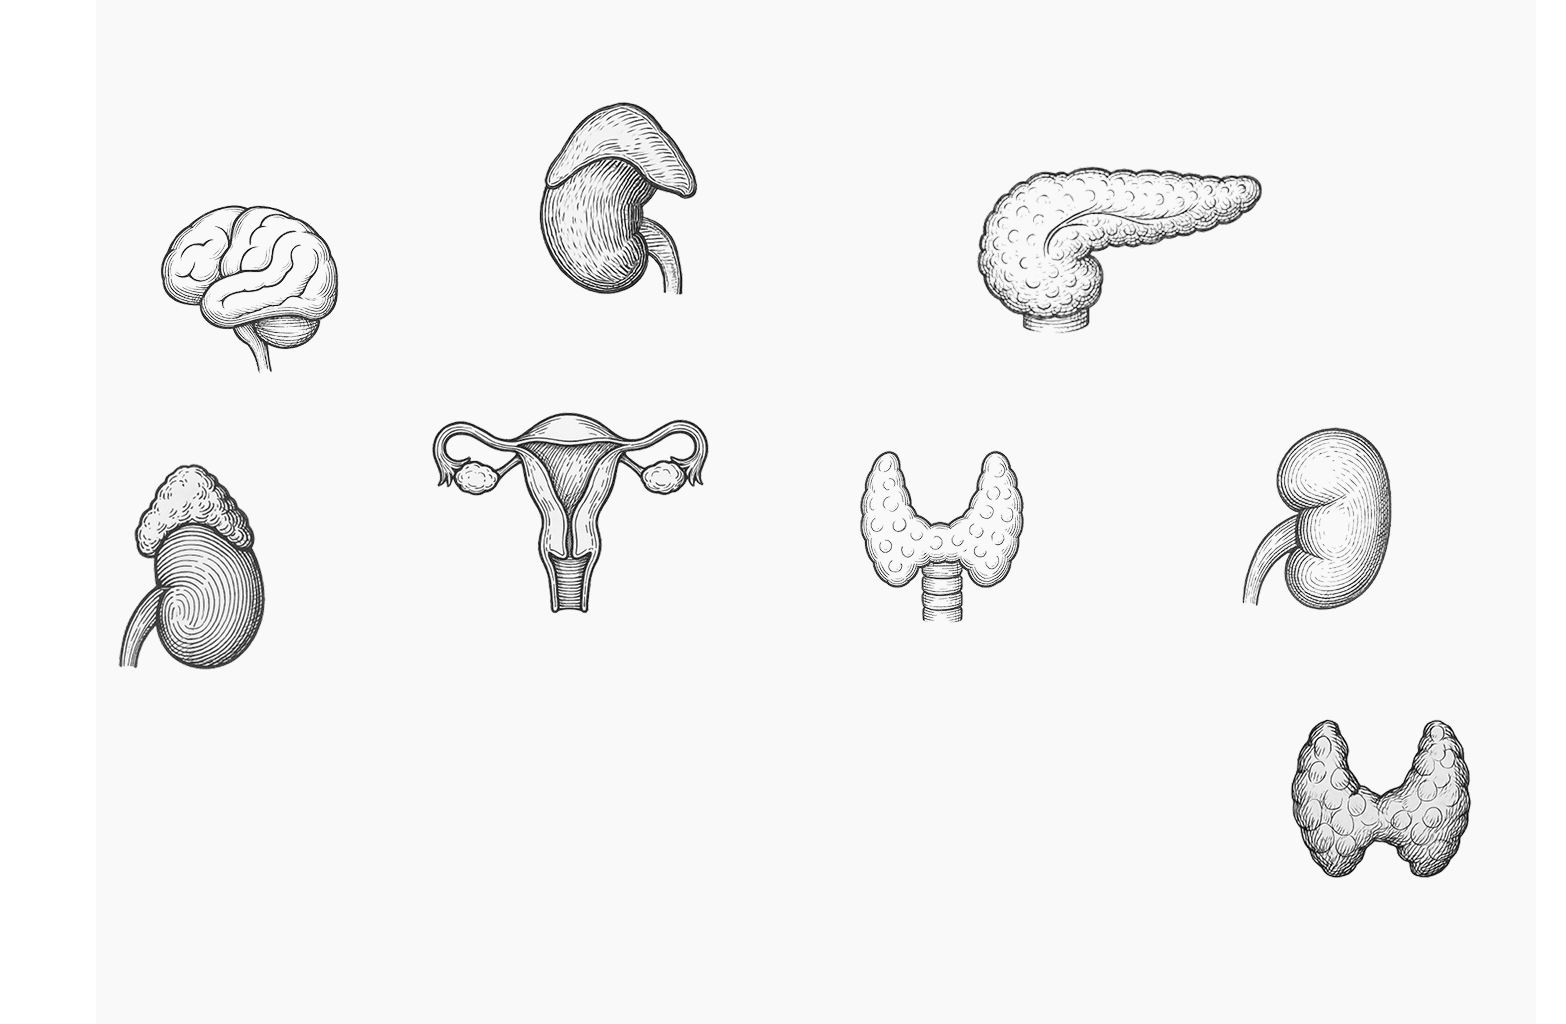
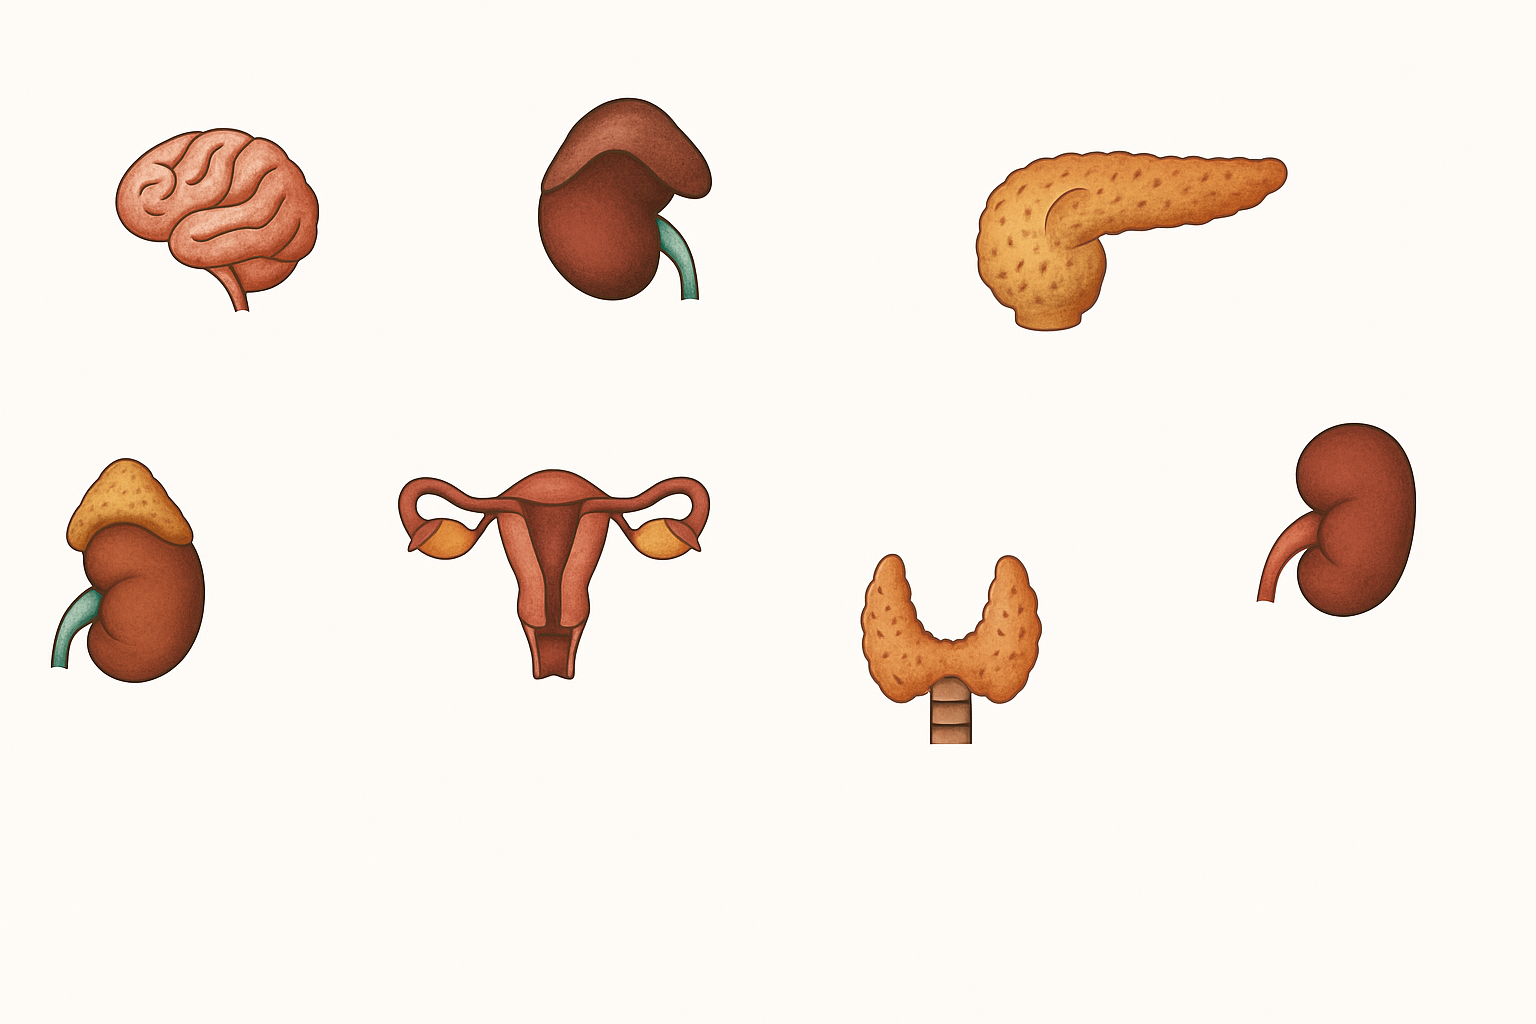
fix: changed baground image to colorful

diff --git a/app/Calculators/page.module.scss b/app/Calculators/page.module.scss
@@ -8,7 +8,6 @@
 }
 
 .page {
-  // min-height: 100vh;
   background: v.$bg;
   padding-top: 24px;
   display: flex;
@@ -113,7 +112,7 @@
 .link {
   text-decoration: underline;
   font-weight: 500;
-  color: #1a73e8; /* blue link */
+  color: #1a73e8; 
 }
 
 .link:hover {